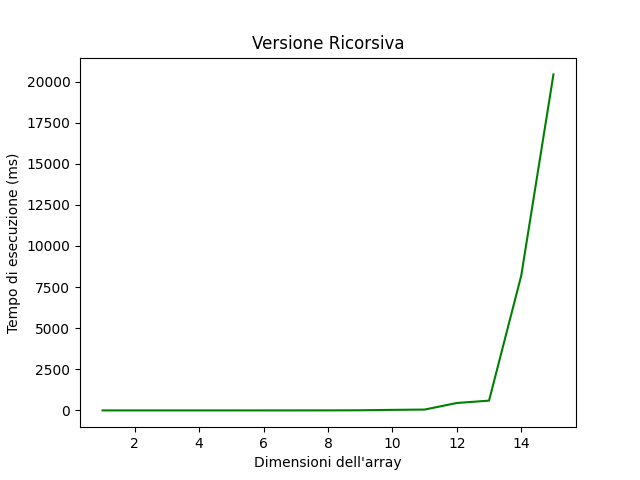
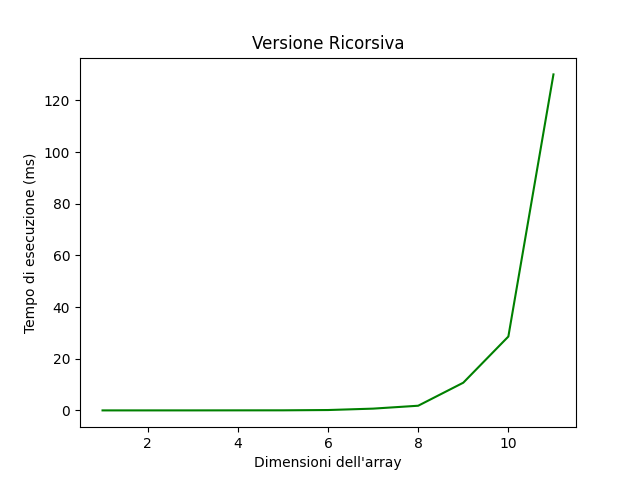
commit

diff --git a/FrancescaSani_Es1/main.py b/FrancescaSani_Es1/main.py
@@ -5,9 +5,9 @@ import matplotlib.pyplot as plt
 import string
 import numpy as np
 
-nrIterazioniTest = 15
+nrIterazioniTest = 100
 
-maxLength = 16 # Dimensione massima delle sequenze generate
+maxLength = 12 # Dimensione massima delle sequenze generate
 
 # Array per salvare i tempi e le dimensioni delle sequenze generate
 BruteForce = []
@@ -234,5 +234,6 @@ def test():
 
 if __name__ == '__main__':
     test()
+    print("\n")
     print("-------------------------------------------------------------")
     print("Eseguito!")
